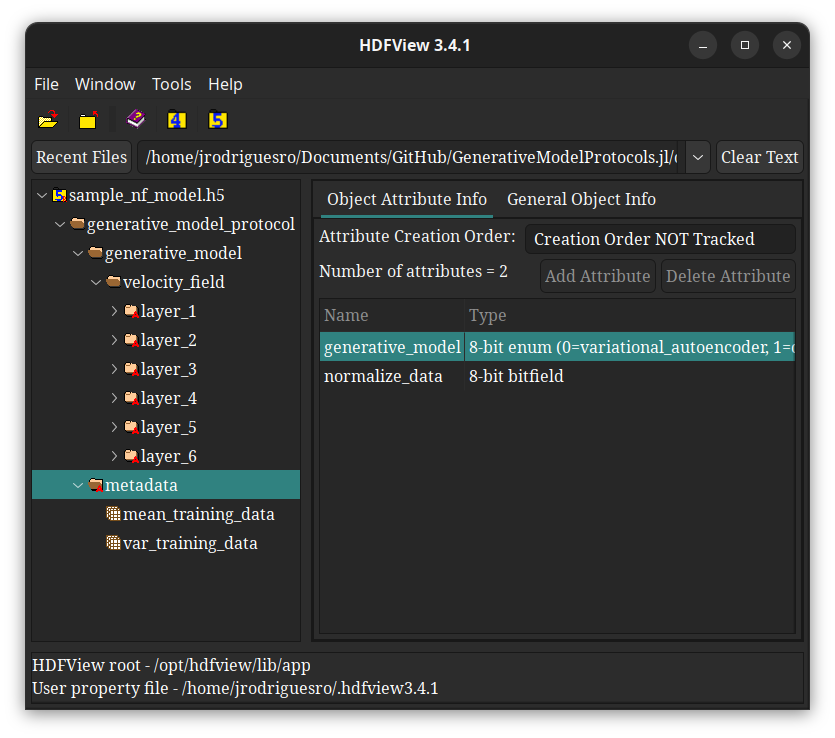
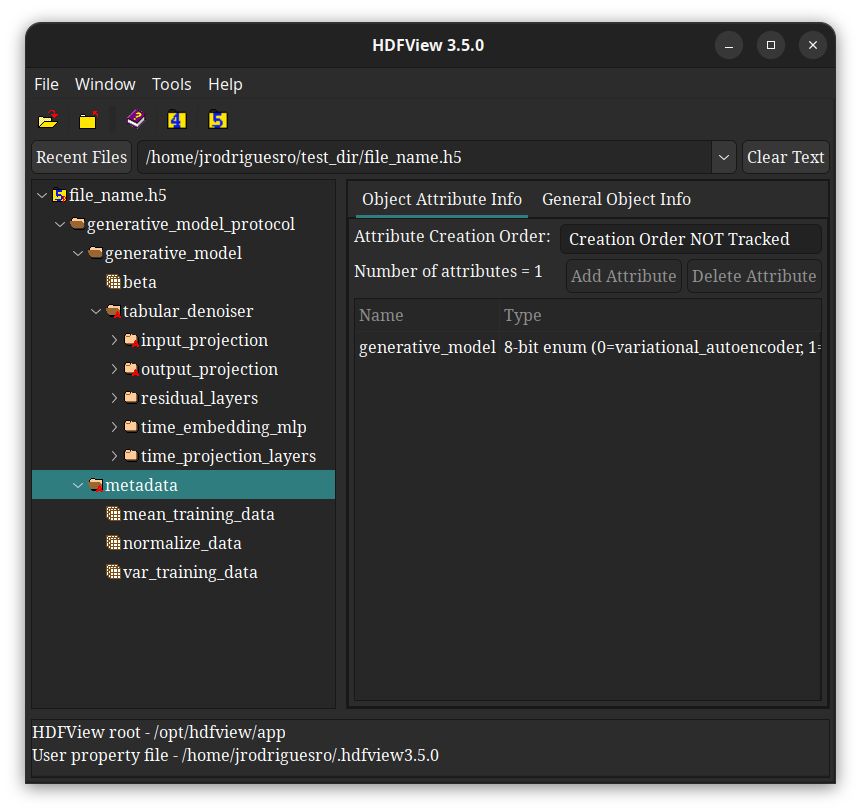
Add save and load documentation example

diff --git a/docs/_static/custom.css b/docs/_static/custom.css
@@ -70,3 +70,15 @@ html[data-theme="dark"].writer-html5 .rst-content #methods dl.py.function > dt.s
 html[data-theme="dark"] .wy-side-nav-search img.logo {
     content: url("../logo-dark.svg");
 }
+
+img.transparent-bg {
+    width: 100% !important;
+    max-width: 100% !important;
+    height: auto !important;
+    display: block;
+    margin-left: auto;
+    margin-right: auto;
+    background: transparent !important;
+    box-shadow: none !important;
+    border: none !important;
+}

diff --git a/docs/examples/save_load/save_load.md b/docs/examples/save_load/save_load.md
@@ -1,0 +1,162 @@
+# Saving and Loading Models
+
+This module provides convenient functionality for saving and loading trained
+generative models in the [HDF5](https://hdfgroup.org) file format.
+[HDF5](https://hdfgroup.org) was specifically chosen to maximize
+interoperability. This ensures your trained models remain accessible and usable
+across other software solutions, even if those systems do not use this module or
+the python programming language at all.
+
+To access this functionality, one only needs to load the Julia modules
+[`FileIO.jl`](https://github.com/juliaio/fileio.jl) and
+[`HDF5.jl`](https://github.com/JuliaIO/HDF5.jl), which can be done via this
+python wrapper with
+```pycon
+>>> import generative_model_protocols as gen_prot
+>>> gen_prot.load_save_load_extension()
+```
+
+finally, we can save an already trained model
+```pycon
+>>> protocol
+GenerativeModelProtocol:
+training_data      = 2×5000 Matrix{Float64}
+mean_training_data = Tuple{Float64, Float64}
+var_training_data  = Tuple{Float64, Float64}
+model              = GenerativeModelProtocols.DiffusionModel
+>>> protocol.model
+GenerativeModelProtocols.DiffusionModel:
+β              = NTuple{250, Float64}
+denoiser_model = GenerativeModelProtocols.TabularDenoiser
+```
+to a file named `file_name.h5` with a single function call
+```pycon
+>>> gen_prot.save(protocol, "file_name.h5")
+```
+
+```{image} ../../assets/examples/save_load/hdfview_screenshot.png
+:alt: Description
+:class: transparent-bg
+```
+
+Likewise, we can load our saved model again with a single function call
+```pycon
+>>> loaded_protocol, loaded_metadata = gen_prot.load("file_name.h5")
+>>> loaded_protocol
+GenerativeModelProtocol:
+training_data      = 2×0 Matrix{Float32}
+mean_training_data = Tuple{Float32, Float32}
+var_training_data  = Tuple{Float32, Float32}
+model              = GenerativeModelProtocols.DiffusionModel
+>>> loaded_protocol.model
+GenerativeModelProtocols.DiffusionModel:
+β              = NTuple{250, Float64}
+denoiser_model = GenerativeModelProtocols.TabularDenoiser
+```
+It is worth pointing out that saved models/protocols are stripped of their
+training data. Thus, to continue training a saved model, `train_data` must be
+supplied separately by the user with
+```pycon
+>>> loaded_protocol, loaded_metadata = gen_prot.load("file_name.h5", train_data)
+>>> loaded_protocol
+GenerativeModelProtocol:
+training_data      = 2×5000 Matrix{Float64}
+mean_training_data = Tuple{Float64, Float64}
+var_training_data  = Tuple{Float64, Float64}
+model              = GenerativeModelProtocols.DiffusionModel
+>>> _ = loaded_protocol.train(epochs = 50)
+Training Diffusion Model...
+Epoch       1 | Mean MSE Loss:   4.56868857E-01
+Epoch       5 | Mean MSE Loss:   4.59564358E-01
+Epoch      10 | Mean MSE Loss:   4.72298145E-01
+Epoch      15 | Mean MSE Loss:   4.59782302E-01
+Epoch      20 | Mean MSE Loss:   4.61032003E-01
+Epoch      25 | Mean MSE Loss:   4.63341594E-01
+Epoch      30 | Mean MSE Loss:   4.40896928E-01
+Epoch      35 | Mean MSE Loss:   4.69295681E-01
+Epoch      40 | Mean MSE Loss:   4.48327363E-01
+Epoch      45 | Mean MSE Loss:   4.60119516E-01
+Epoch      50 | Mean MSE Loss:   4.60467845E-01
+Training complete!
+Training took 52 seconds.
+```
+
+## HDF5 Group Names
+
+By default the main group name used for all saved `GenerativeModelProtocol`
+instances is `generative_model_protocol`, the default group name for the trained
+parameters of its generative model is `generative_model` and the default group
+name for all its metadata is `metadata`. However, users can easily modify all or
+some of these names by simply using the corresponding key word arguments.
+
+For example, we can save our example protocol with customized HDF5 group names
+as
+```pycon
+>>> gen_prot.save(protocol, "saved_protocol.h5",
+...    main_group_name             = "customized_protocol",
+...    metadata_group_name         = "customized_metadata",
+...    generative_model_group_name = "customized_generative_model"
+... )
+```
+
+```{image} ../../assets/examples/save_load/hdfview_screenshot_group_names.png
+:alt: Description
+:class: transparent-bg
+```
+
+## User Metadata
+
+Users can easily include additional metadata to any saved instance of a
+`GenerativeModelProtocol` via the following keyword argument
+```pycon
+>>> metadata = {
+...     "A": 5.0,
+...     "B": "32",
+...     "C": [1,2]
+... }
+>>> gen_prot.save(protocol, "saved_protocol.h5",
+...    main_group_name             = "customized_protocol",
+...    metadata_group_name         = "customized_metadata",
+...    generative_model_group_name = "customized_generative_model",
+...    metadata                    = metadata
+... )
+```
+
+```{image} ../../assets/examples/save_load/hdfview_screenshot_metadata.png
+:alt: Description
+:class: transparent-bg
+```
+
+Finally, users can retrieve the saved protocol and metadata with
+
+```pycon
+>>> saved_protocol, metadata = gen_prot.load("saved_protocol.h5",
+...    main_group_name             = "customized_protocol",
+...    metadata_group_name         = "customized_metadata",
+...    generative_model_group_name = "customized_generative_model"
+... )
+>>> saved_protocol
+GenerativeModelProtocol:
+training_data      = 2×0 Matrix{Float32}
+mean_training_data = Tuple{Float32, Float32}
+var_training_data  = Tuple{Float32, Float32}
+model              = GenerativeModelProtocols.DiffusionModel
+>>> metadata
+{'A': 5.0, 'B': '32', 'C': [1, 2]}
+```
+or, to continue training, with
+```pycon
+>>> saved_protocol, metadata = gen_prot.load("saved_protocol.h5", train_data,
+...    main_group_name             = "customized_protocol",
+...    metadata_group_name         = "customized_metadata",
+...    generative_model_group_name = "customized_generative_model"
+... )
+>>> saved_protocol
+GenerativeModelProtocol:
+training_data      = 2×5000 Matrix{Float64}
+mean_training_data = Tuple{Float64, Float64}
+var_training_data  = Tuple{Float64, Float64}
+model              = GenerativeModelProtocols.DiffusionModel
+>>> metadata
+{'A': 5.0, 'B': '32', 'C': [1, 2]}
+```

diff --git a/docs/api/methods.md b/docs/api/methods.md
@@ -1,11 +1,11 @@
 # Methods
 
 ```{eval-rst}
-.. autofunction:: generative_model_protocols.load_differential_equations
+.. autofunction:: generative_model_protocols.load_differential_equations_extension
 
 .. autofunction:: generative_model_protocols.load_distribution_distance_extension
 
-.. autofunction:: generative_model_protocols.load_save_load_exension
+.. autofunction:: generative_model_protocols.load_save_load_extension
 
 .. autofunction:: generative_model_protocols.default_optimiser
 

diff --git a/docs/index.md b/docs/index.md
@@ -79,6 +79,7 @@ distribution_distances/sinkhorn_distance
 :caption: Examples
 
 examples/getting_started/index
+examples/save_load/save_load
 ```
 
 ```{toctree}
